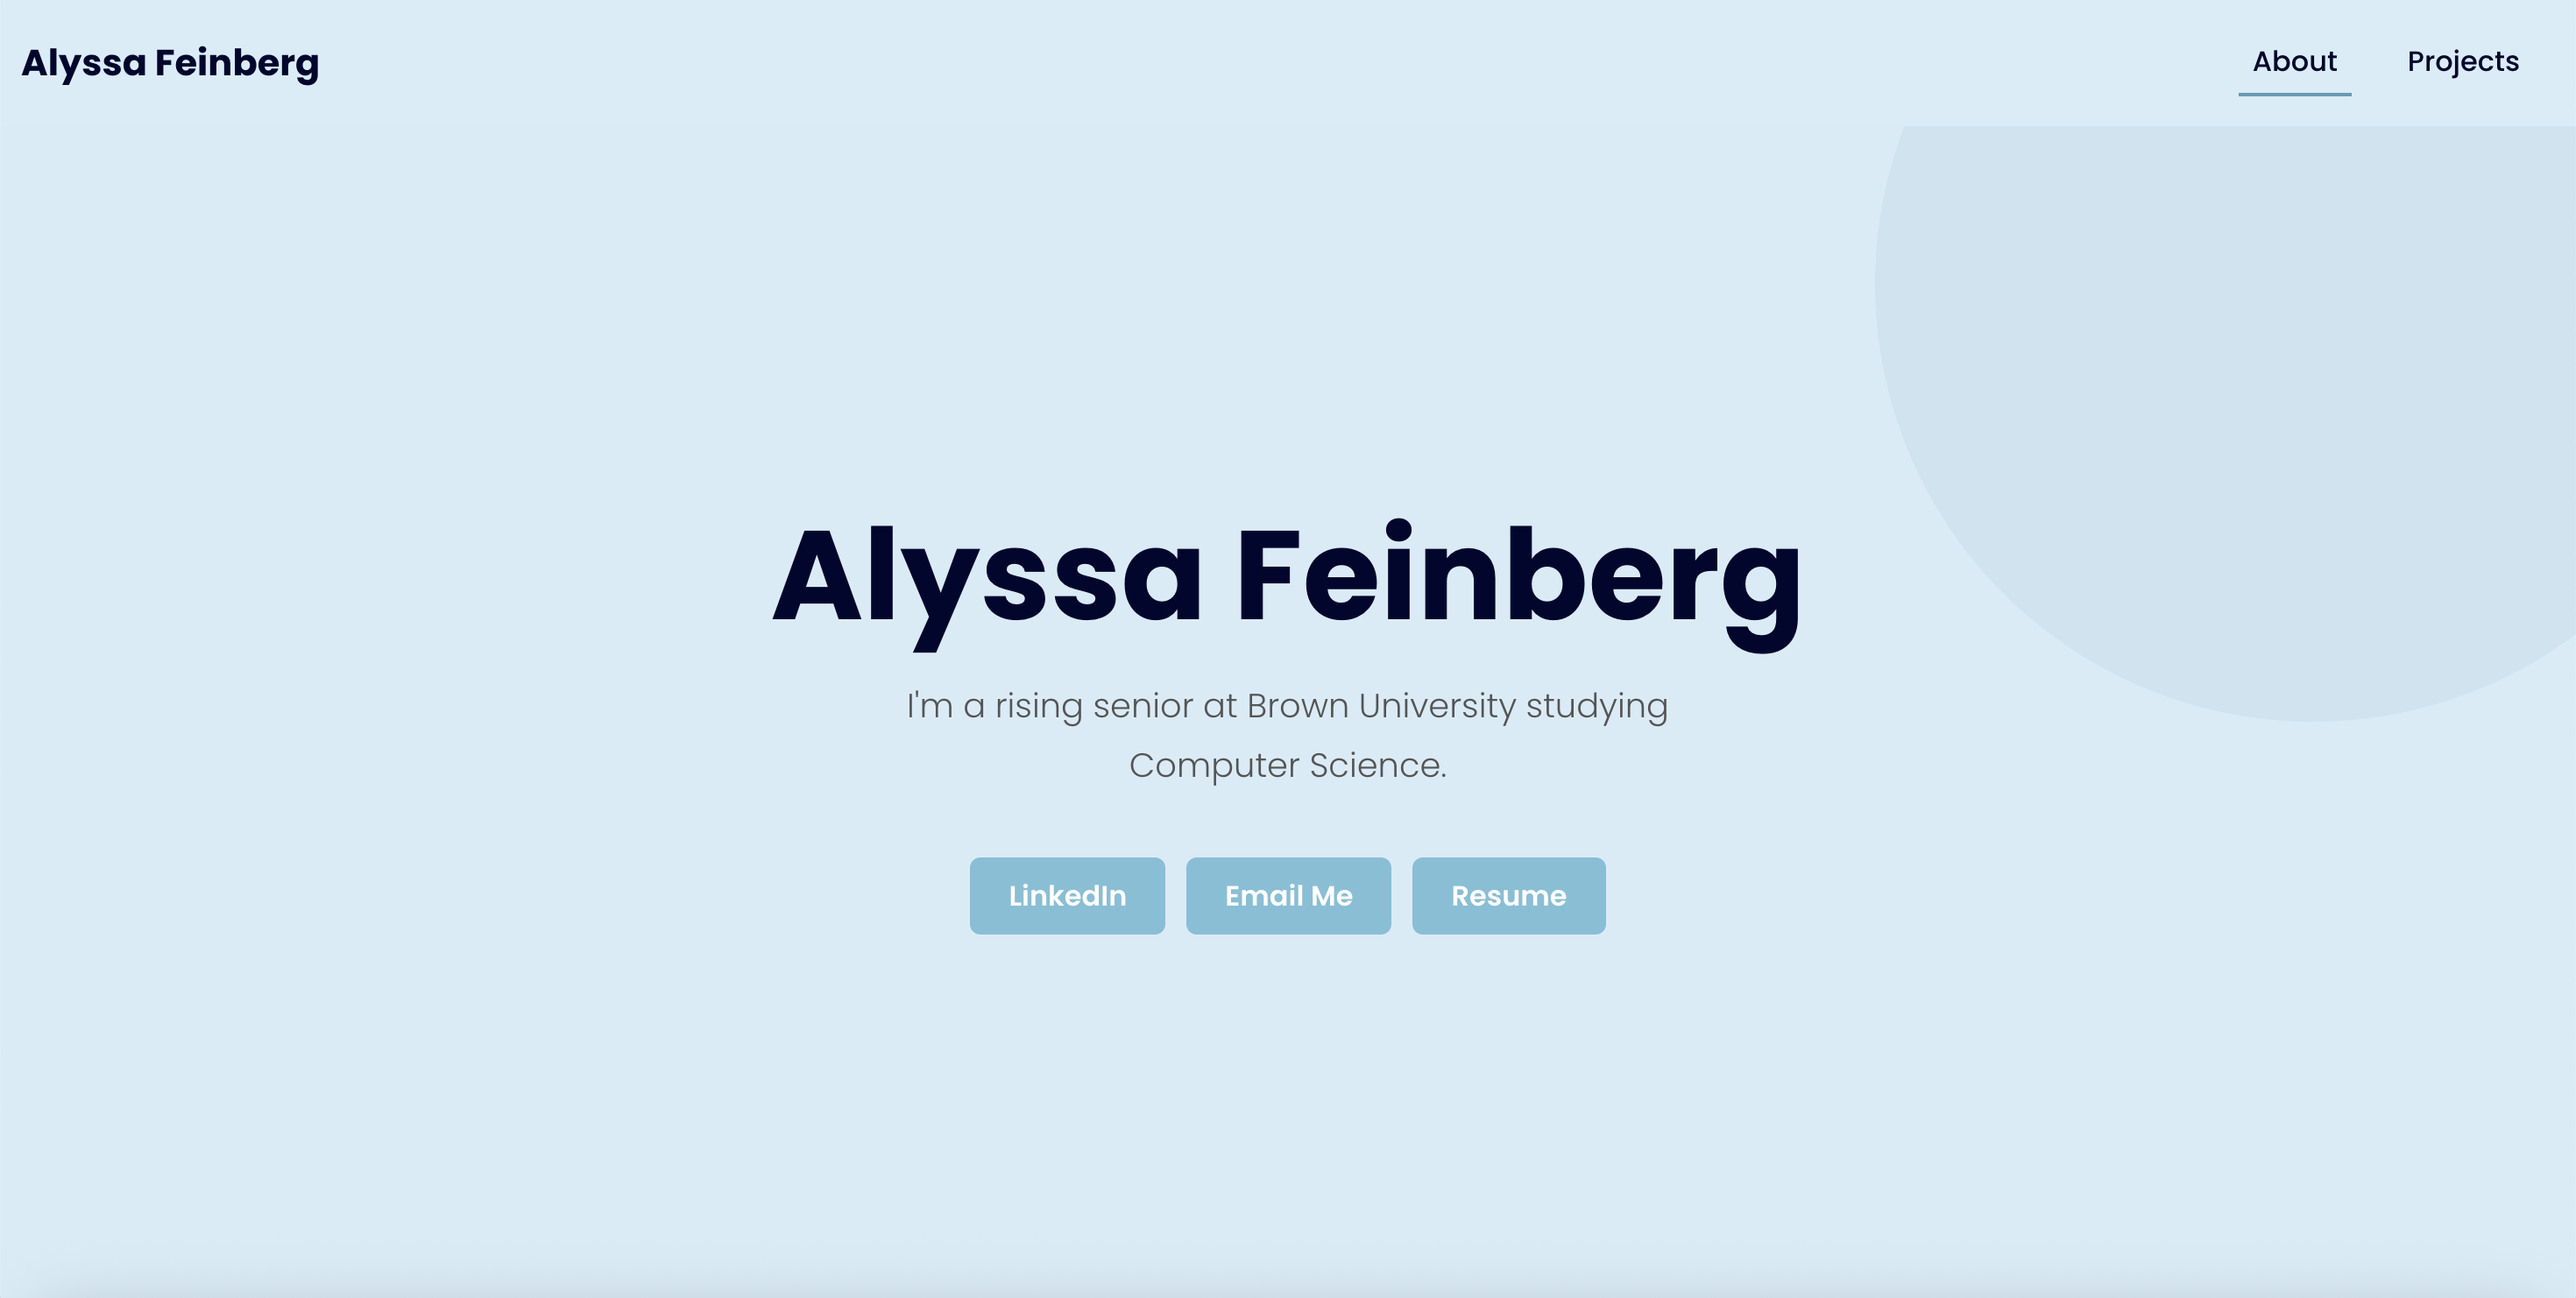
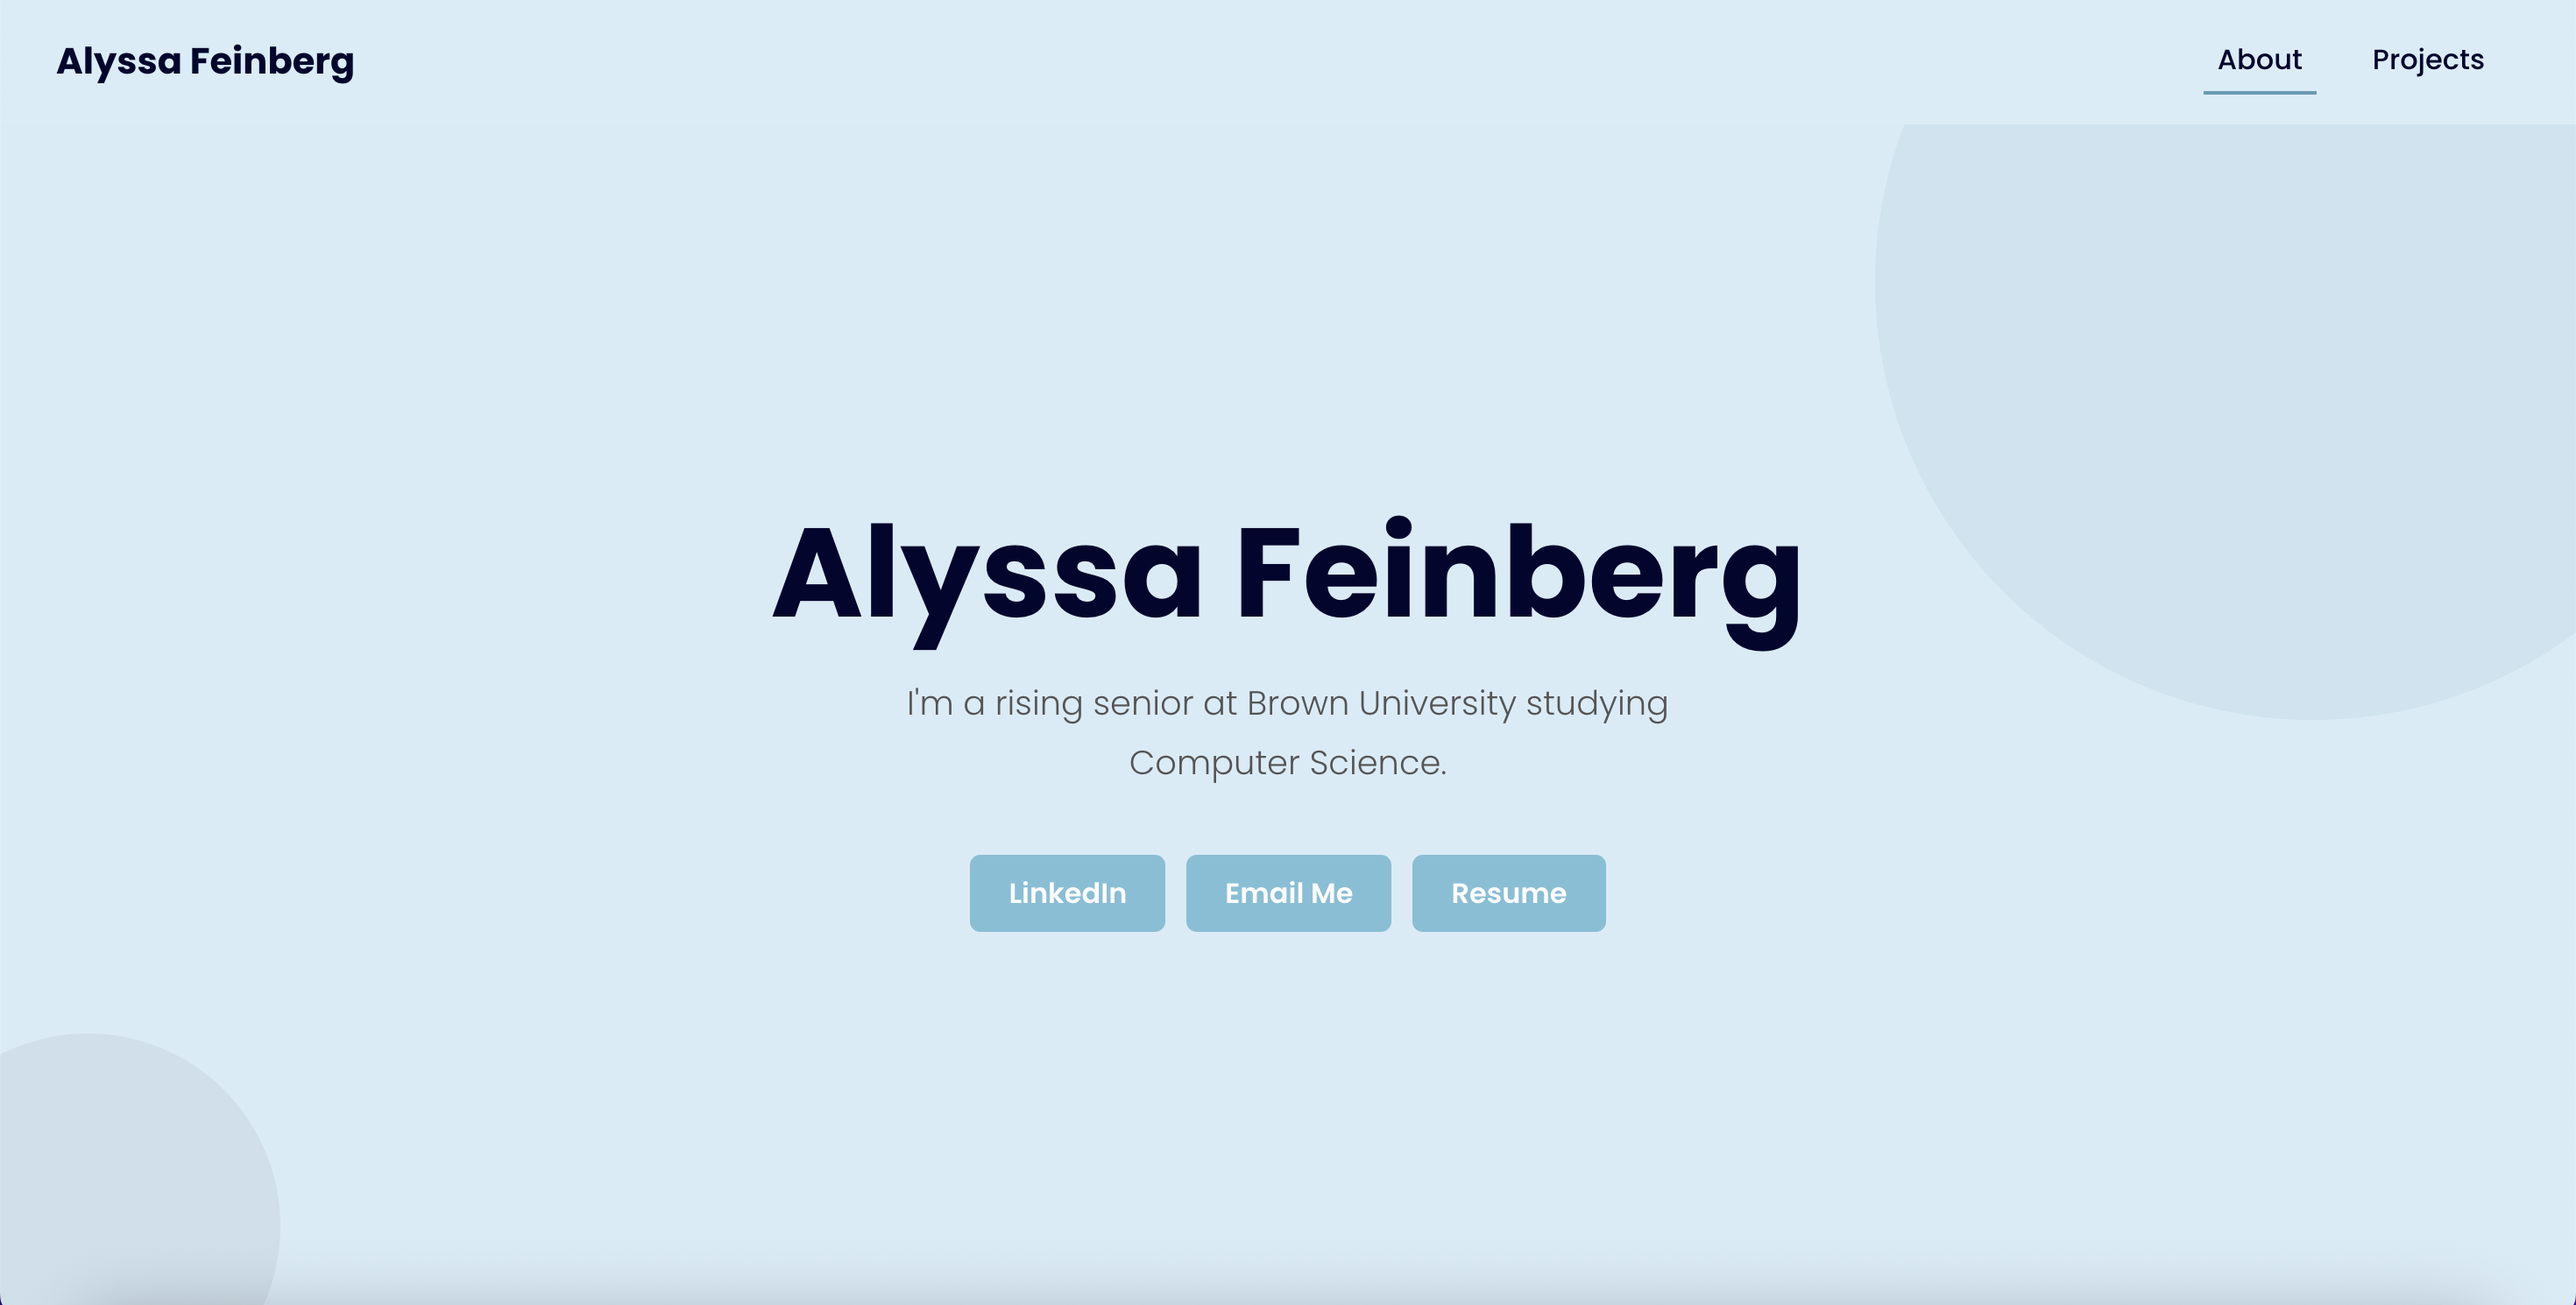
added circle

diff --git a/src/components/About/Welcome.jsx b/src/components/About/Welcome.jsx
@@ -47,6 +47,7 @@ const Welcome = () => {
       )}
       <section className="hero-section">
         <div className="hero-circle hc1" />
+        <div className="hero-circle hc2" />
         <div className="hero-circle hc3" />
         <div className={`hero-inner anim ${animate ? "go" : ""}`}>
           <h1 className="hero-name">Alyssa Feinberg</h1>
@@ -56,8 +57,8 @@ const Welcome = () => {
           </p>
           <div className={`hero-btns ${showButtons ? "visible" : ""}`}>
             <a href="https://www.linkedin.com/in/alyssa-feinberg-23a38b2a8" className="hero-btn" target="_blank" rel="noopener noreferrer">LinkedIn</a>
-            <a href="mailto:alyssa_feinberg@brown.edu" className="hero-btn">Email Me</a>
-            <a href="/Alyssa_Feinberg_Resume_2025.pdf" className="hero-btn" download>Resume</a>
+            <a href="mailto:alyssasf16@gmail.com" className="hero-btn">Email Me</a>
+            <a href="/Alyssa_Feinberg_Resume_2026.pdf" className="hero-btn" download>Resume</a>
           </div>
         </div>
       </section>

diff --git a/src/styles/Welcome.css b/src/styles/Welcome.css
@@ -74,11 +74,18 @@
   background: rgba(91, 155, 181, 0.1);
   top: -160px; right: -100px;
 }
+
 .hc2 {
+  width: 220px;
+  height: 220px;
+  background: rgba(2,6,46,0.05);
+  bottom: -60px;
+  left: -60px; }
+/* .hc2 {
   width: 280px; height: 280px;
   background: rgba(2, 6, 46, 0.04);
   bottom: -60px; left: -60px;
-}
+} */
 
 .hero-inner {
   display: flex; flex-direction: column; align-items: center;
